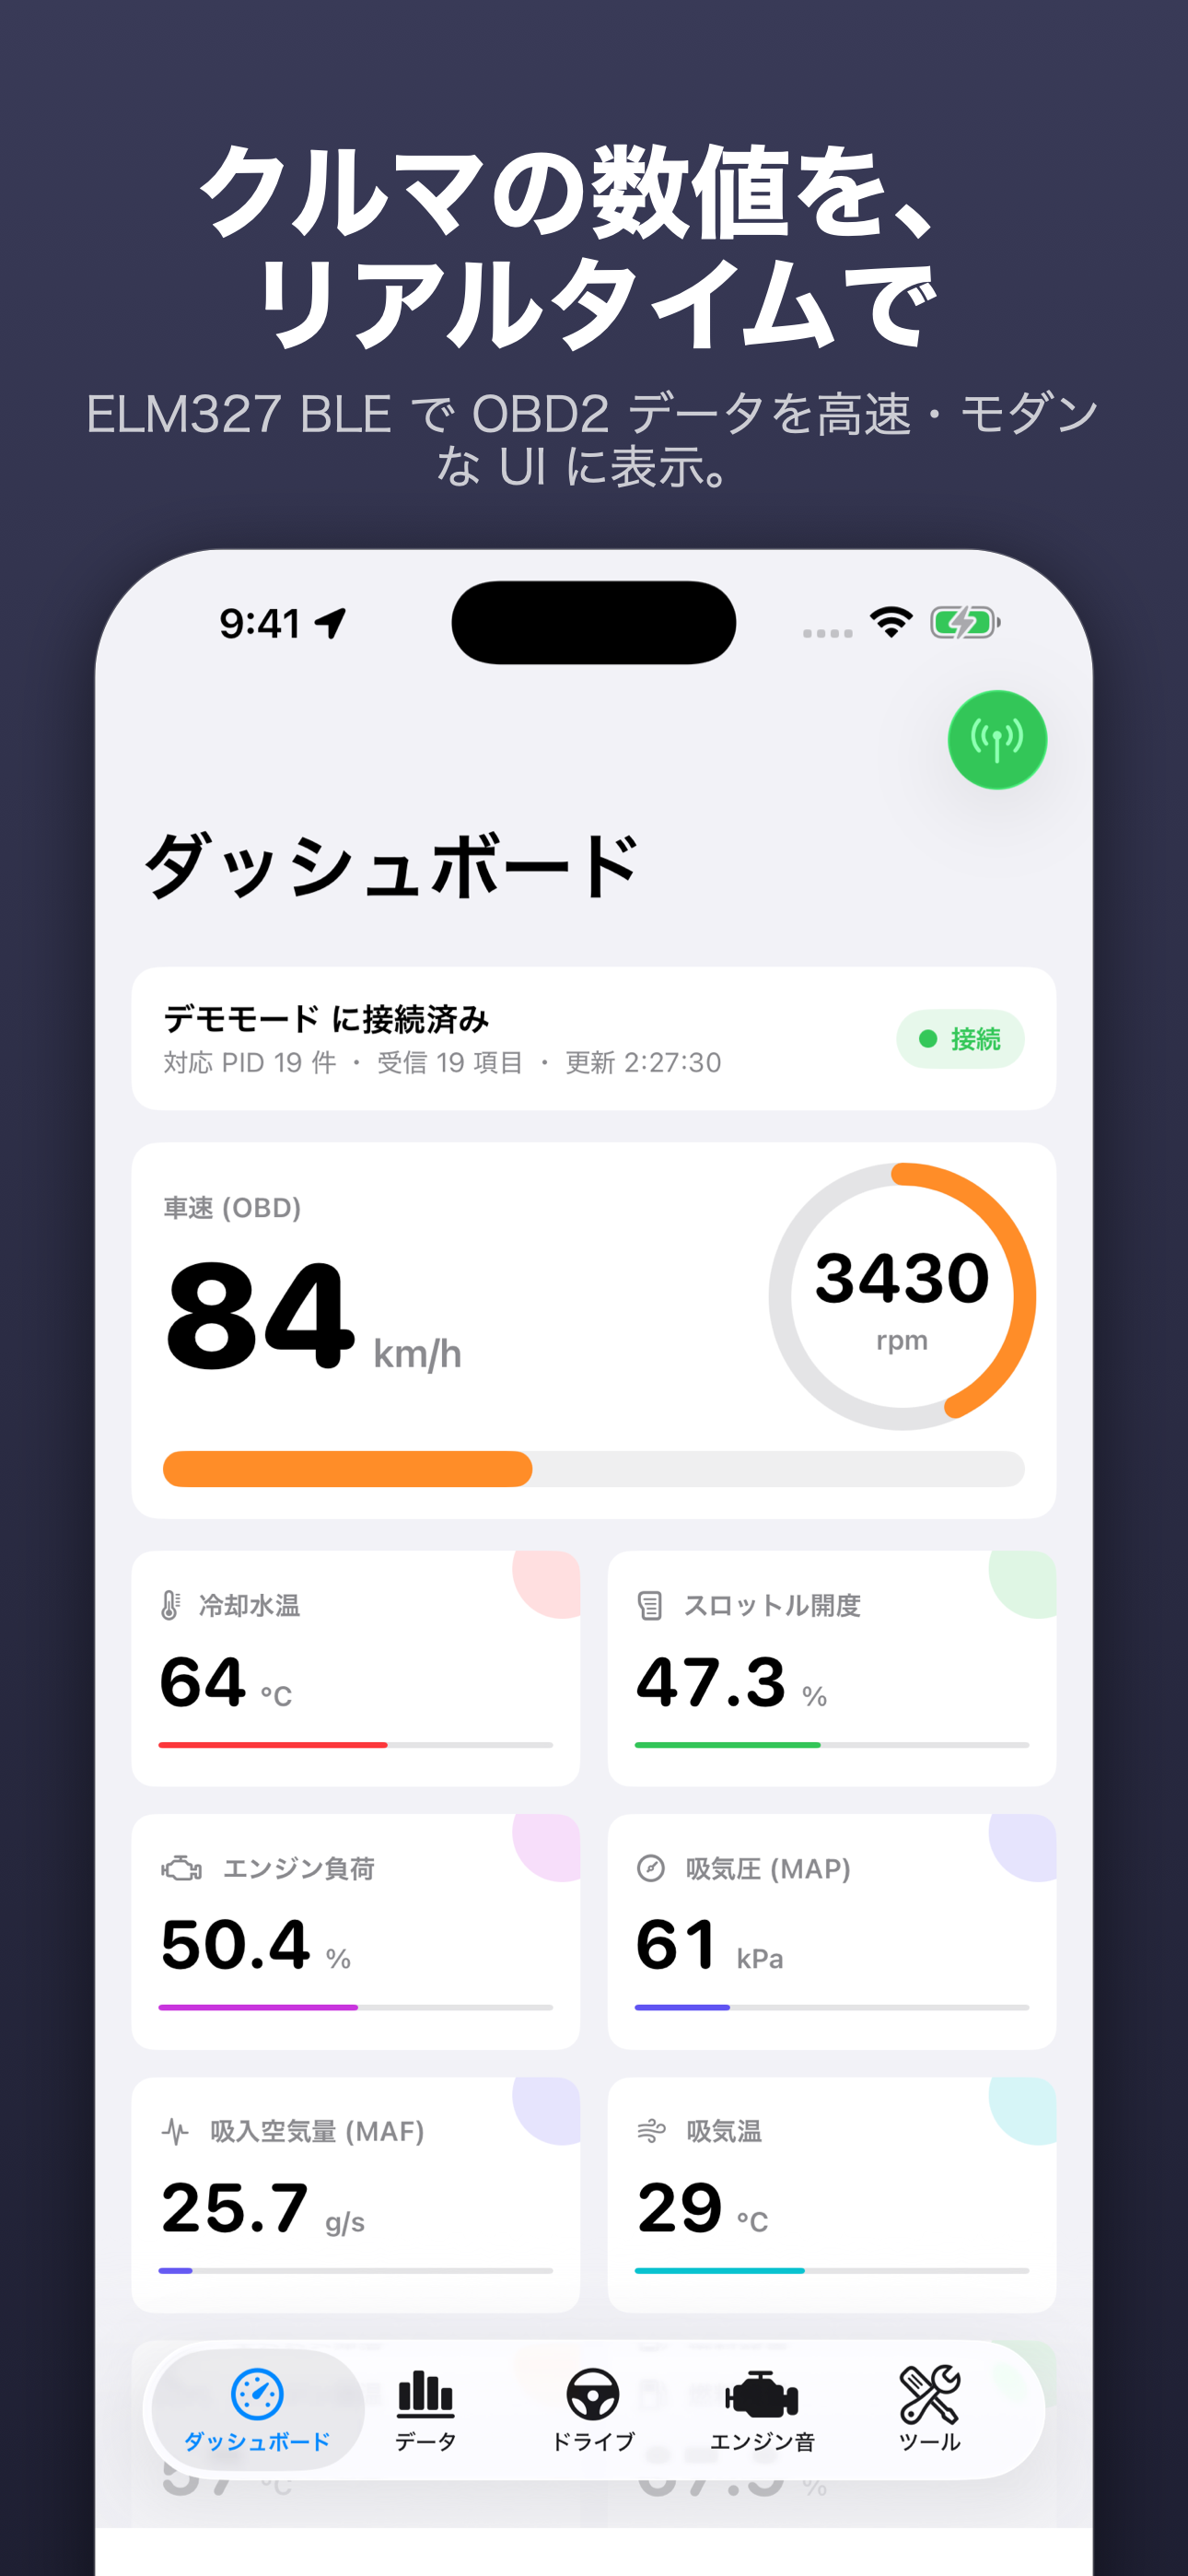
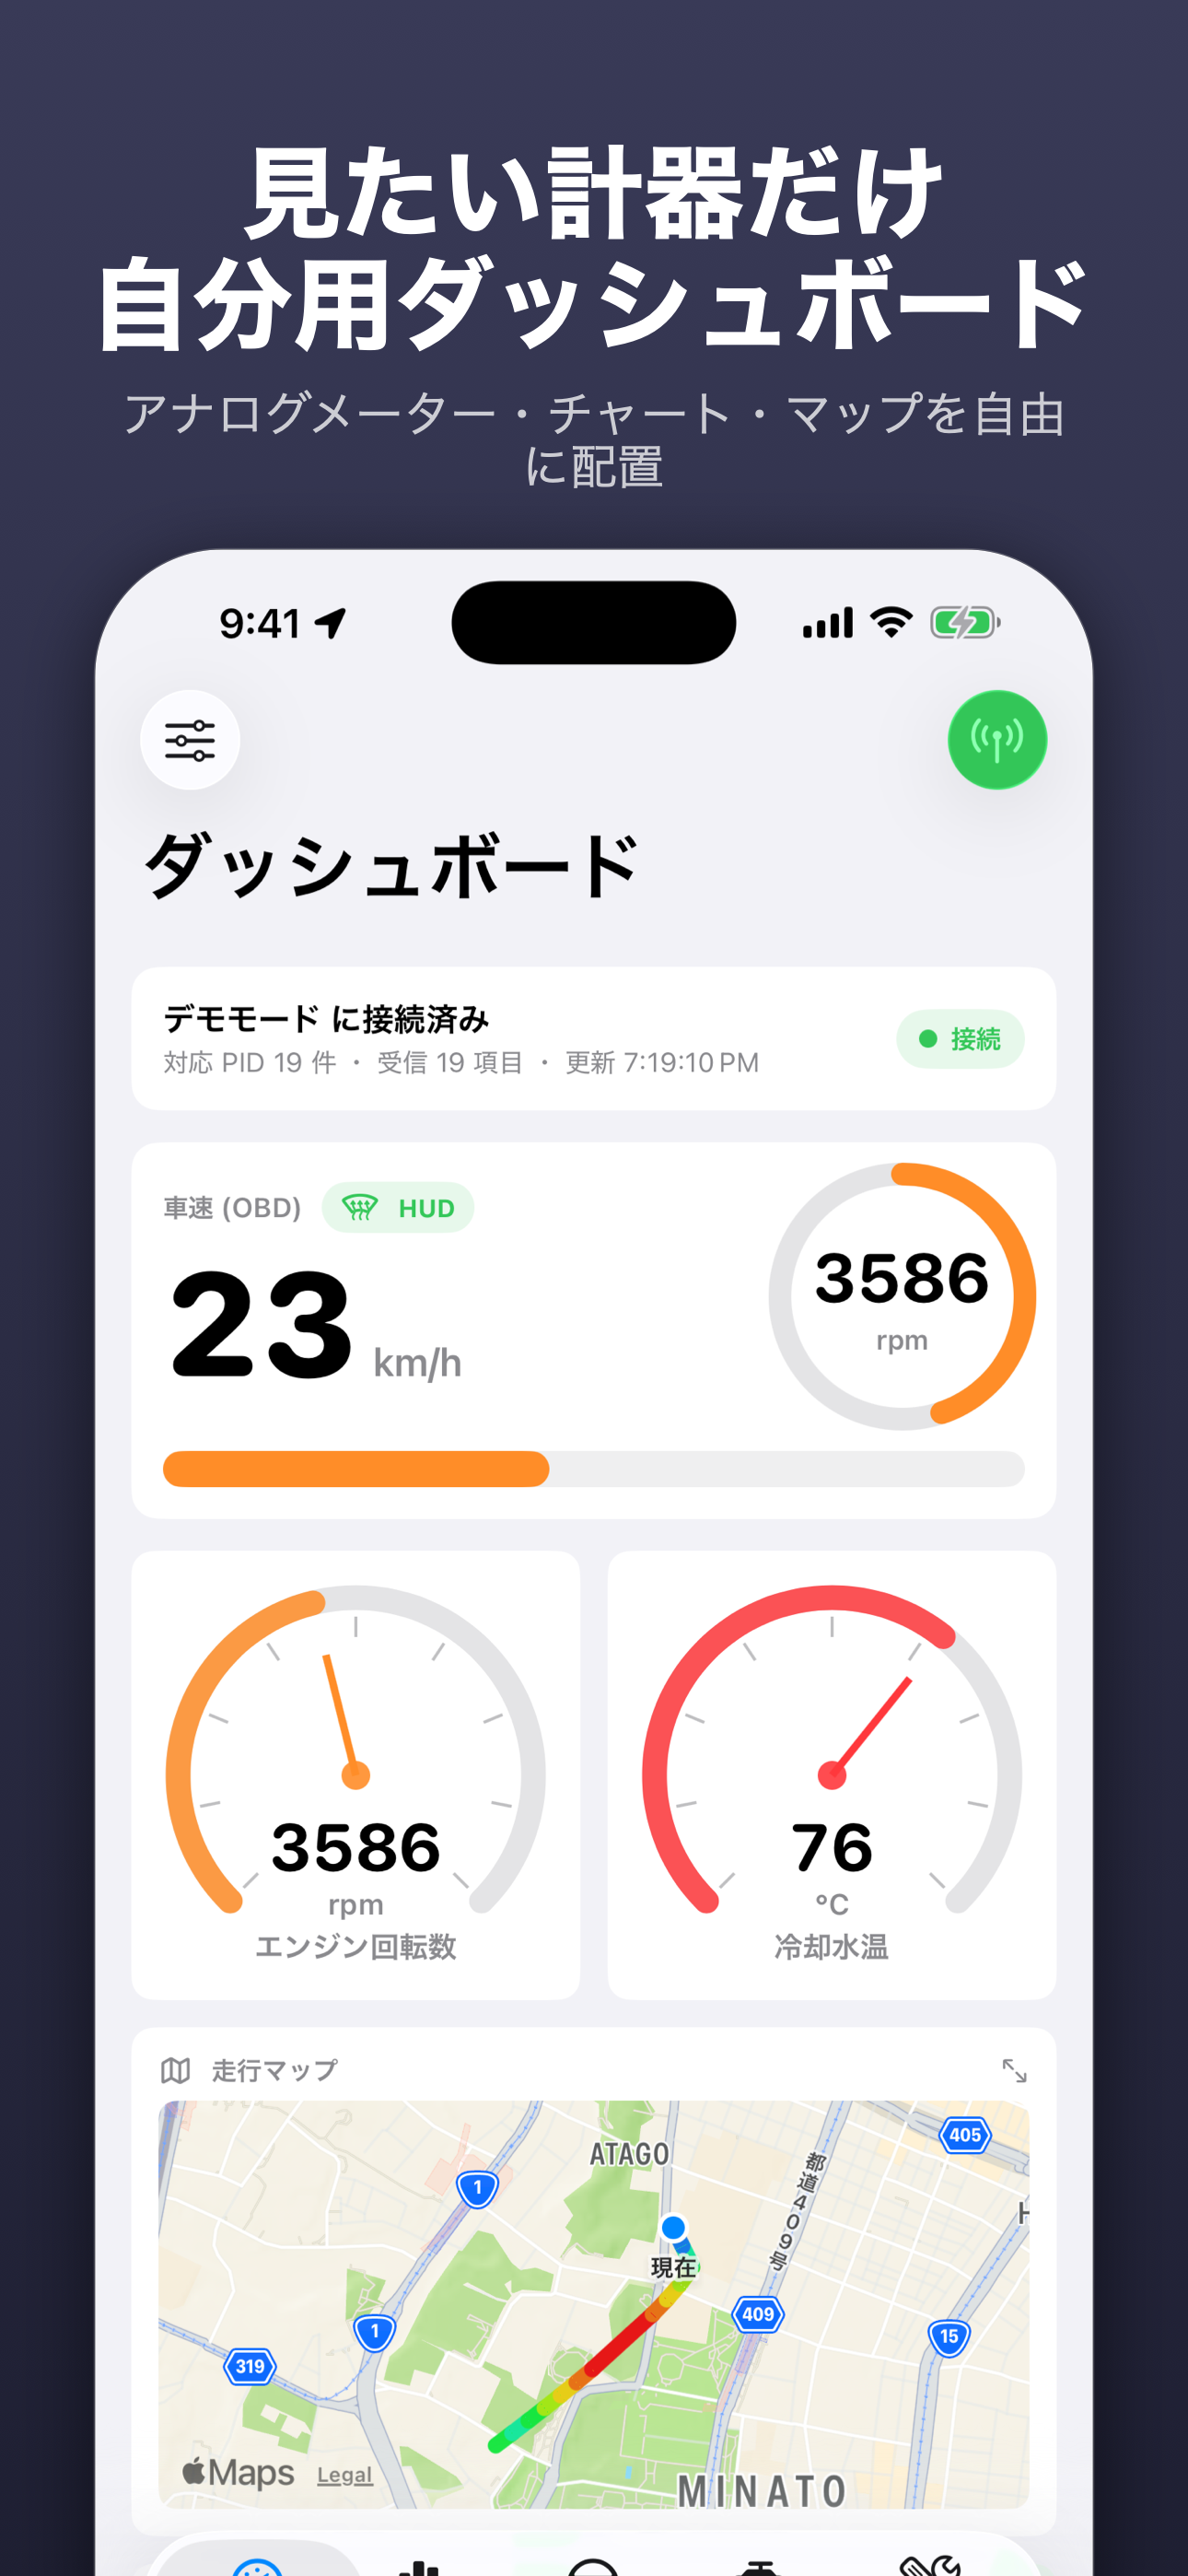
Pro収益最大化: 比較表ペイウォール+文脈導線+初回提案、ASO刷新
- ペイウォールを無料/広告除去/Proの3列比較表に刷新(価格アンカリング)
- CSV制限到達時の警告→ペイウォール導線、初回接続後に一度だけプラン提案
- ASCのプロダクトIDはハイフン不可のため Sena.car_ui.* に改名
- ストアメタデータ(ja/en-US)とスクショ7枚×2ロケールを新機能反映で全面更新

diff --git a/car_ui/PaywallView.swift b/car_ui/PaywallView.swift
@@ -2,8 +2,8 @@
 //  PaywallView.swift
 //  car_ui
 //
-//  Pro(買い切り)ペイウォール。広告除去・DTC 消去・CSV 無制限・記録保存の
-//  価値を提示し、購入 / 復元を行う。
+//  プラン提案ペイウォール。無料 / 広告除去(¥300)/ Pro(¥730)の3列比較で
+//  価値を提示し、購入 / 復元を行う。買い切り・サブスクなしを全面に。
 //
 
 import StoreKit
@@ -13,19 +13,34 @@ struct PaywallView: View {
     @Environment(ProStore.self) private var proStore
     @Environment(\.dismiss) private var dismiss
 
+    private struct BenefitRow: Identifiable {
+        let name: String
+        let detail: String
+        let inAdFree: Bool
+
+        var id: String { name }
+    }
+
+    private let benefits: [BenefitRow] = [
+        BenefitRow(name: "広告なし", detail: "全タブのバナー広告を非表示", inAdFree: true),
+        BenefitRow(name: "DTC 消去", detail: "故障コードをワンタップで消去", inAdFree: false),
+        BenefitRow(name: "CSV 無制限", detail: "横持ち/縦持ちエクスポートを制限なく", inAdFree: false),
+        BenefitRow(name: "記録の保存", detail: "0-100 加速・G フォースの記録を保存", inAdFree: false)
+    ]
+
     var body: some View {
         NavigationStack {
             ScrollView {
                 VStack(alignment: .leading, spacing: 22) {
                     header
-                    benefitsList
+                    comparisonTable
                     purchaseSection
                 }
                 .padding()
                 .frame(maxWidth: .infinity, alignment: .leading)
             }
             .background(Color(.systemGroupedBackground))
-            .navigationTitle("car_ui Pro")
+            .navigationTitle("プラン")
             .navigationBarTitleDisplayMode(.inline)
             .toolbar {
                 ToolbarItem(placement: .cancellationAction) {
@@ -50,42 +65,93 @@ struct PaywallView: View {
                 .font(.system(size: 44))
                 .foregroundStyle(.orange)
 
-            Text("car_ui Pro")
+            Text("買い切り、一回だけ。")
                 .font(.title2.weight(.bold))
 
-            Text("買い切り一回払い。サブスクなし・広告なしで全機能を使えます。")
+            Text("サブスクはありません。一度買えばずっと使えます。")
                 .font(.subheadline)
                 .foregroundStyle(.secondary)
         }
         .frame(maxWidth: .infinity, alignment: .leading)
     }
 
-    private var benefitsList: some View {
-        VStack(alignment: .leading, spacing: 16) {
-            benefitRow(icon: "rectangle.slash", title: "広告除去", detail: "全タブのバナー広告を非表示")
-            benefitRow(icon: "stethoscope", title: "DTC 消去", detail: "故障コードをワンタップで消去")
-            benefitRow(icon: "square.and.arrow.up", title: "CSV ログ無制限", detail: "記録データを制限なくエクスポート")
-            benefitRow(icon: "internaldrive", title: "記録の保存", detail: "0-100 加速・G フォースの記録を保存")
-        }
-        .panelStyle()
-    }
+    // MARK: - 無料 / 広告除去 / Pro の比較表
 
-    private func benefitRow(icon: String, title: String, detail: String) -> some View {
-        HStack(alignment: .top, spacing: 12) {
-            Image(systemName: icon)
-                .font(.title3)
-                .foregroundStyle(.blue)
-                .frame(width: 26)
-
-            VStack(alignment: .leading, spacing: 2) {
-                Text(title)
-                    .font(.subheadline.weight(.semibold))
-                Text(detail)
-                    .font(.caption)
+    private var comparisonTable: some View {
+        VStack(spacing: 0) {
+            // ヘッダ行
+            HStack(spacing: 0) {
+                Text("機能")
+                    .font(.caption.weight(.semibold))
                     .foregroundStyle(.secondary)
+                    .frame(maxWidth: .infinity, alignment: .leading)
+
+                planHeader("無料", price: nil, highlighted: false)
+                planHeader("広告除去", price: proStore.adFreeProduct?.displayPrice, highlighted: false)
+                planHeader("Pro", price: proStore.proProduct?.displayPrice, highlighted: true)
+            }
+            .padding(.vertical, 10)
+
+            Divider()
+
+            ForEach(benefits) { benefit in
+                HStack(spacing: 0) {
+                    VStack(alignment: .leading, spacing: 2) {
+                        Text(benefit.name)
+                            .font(.subheadline.weight(.semibold))
+                        Text(benefit.detail)
+                            .font(.caption2)
+                            .foregroundStyle(.secondary)
+                    }
+                    .frame(maxWidth: .infinity, alignment: .leading)
+
+                    checkCell(false, highlighted: false)
+                    checkCell(benefit.inAdFree, highlighted: false)
+                    checkCell(true, highlighted: true)
+                }
+                .padding(.vertical, 10)
+
+                if benefit.id != benefits.last?.id {
+                    Divider()
+                }
             }
         }
+        .padding(.horizontal, 14)
+        .background(Color(.secondarySystemGroupedBackground), in: RoundedRectangle(cornerRadius: 12))
+        .overlay(alignment: .topTrailing) {
+            Text("おすすめ")
+                .font(.caption2.weight(.bold))
+                .padding(.horizontal, 8)
+                .padding(.vertical, 3)
+                .background(.indigo, in: Capsule())
+                .foregroundStyle(.white)
+                .offset(x: -8, y: -10)
+        }
     }
+
+    private func planHeader(_ name: String, price: String?, highlighted: Bool) -> some View {
+        VStack(spacing: 2) {
+            Text(name)
+                .font(.caption.weight(highlighted ? .bold : .semibold))
+                .foregroundStyle(highlighted ? .indigo : .secondary)
+                .lineLimit(1)
+                .minimumScaleFactor(0.7)
+
+            Text(price ?? (name == "無料" ? "¥0" : "—"))
+                .font(.caption2.monospacedDigit())
+                .foregroundStyle(highlighted ? .indigo : .secondary)
+        }
+        .frame(width: 64)
+    }
+
+    private func checkCell(_ included: Bool, highlighted: Bool) -> some View {
+        Image(systemName: included ? "checkmark.circle.fill" : "minus")
+            .font(.subheadline)
+            .foregroundStyle(included ? (highlighted ? .indigo : .green) : Color(.systemFill))
+            .frame(width: 64)
+    }
+
+    // MARK: - 購入
 
     private var purchaseSection: some View {
         VStack(spacing: 12) {
@@ -104,11 +170,16 @@ struct PaywallView: View {
                         ProgressView()
                             .tint(.white)
                     }
-                    Text(purchaseButtonTitle)
-                        .font(.headline)
+                    VStack(spacing: 1) {
+                        Text(purchaseButtonTitle)
+                            .font(.headline)
+                        Text("全機能・買い切り")
+                            .font(.caption2)
+                            .opacity(0.85)
+                    }
                 }
                 .frame(maxWidth: .infinity)
-                .frame(height: 50)
+                .frame(height: 56)
             }
             .buttonStyle(.borderedProminent)
             .tint(.indigo)
@@ -127,11 +198,6 @@ struct PaywallView: View {
                 }
                 .buttonStyle(.bordered)
                 .disabled(proStore.isPurchasing || proStore.adFreeProduct == nil)
-
-                Text("広告除去のみの買い切りです。DTC 消去などの Pro 機能は含みません。")
-                    .font(.caption2)
-                    .foregroundStyle(.secondary)
-                    .frame(maxWidth: .infinity, alignment: .center)
             } else {
                 Text("広告除去は購入済みです。Pro にすると残りの機能も使えます。")
                     .font(.caption)
@@ -144,6 +210,11 @@ struct PaywallView: View {
             }
             .font(.subheadline.weight(.semibold))
             .disabled(proStore.isPurchasing)
+
+            Text("お支払いは一度だけ。自動更新や定期課金は一切ありません。")
+                .font(.caption2)
+                .foregroundStyle(.secondary)
+                .frame(maxWidth: .infinity, alignment: .center)
         }
         .frame(maxWidth: .infinity)
     }

diff --git a/car_ui/ChartsView.swift b/car_ui/ChartsView.swift
@@ -16,6 +16,7 @@ struct ChartsView: View {
     @State private var windowMinutes = 5
     @State private var normalized = false
     @State private var exportWideFormat = true
+    @State private var showingPaywall = false
     @AppStorage("charts.separate") private var separateCharts = false
 
     private let windowOptions = [1, 5, 15, 60]
@@ -43,6 +44,9 @@ struct ChartsView: View {
             }
             .background(Color(.systemGroupedBackground))
             .navigationTitle("チャート")
+            .sheet(isPresented: $showingPaywall) {
+                PaywallView()
+            }
             .onAppear(perform: selectDefaultChannels)
             // 起動直後にこのタブを開くと記録がまだ空でデフォルト選択が効かないため、
             // チャンネルが現れたタイミングでも選択し直す
@@ -265,9 +269,28 @@ struct ChartsView: View {
                 .foregroundStyle(.secondary)
 
             if !proStore.isPro {
-                Text("無料版は直近\(TelemetryRecorder.freeExportRowLimit)件(行)までエクスポート。Pro で無制限。")
-                    .font(.caption)
-                    .foregroundStyle(.secondary)
+                if exportWillTruncate {
+                    // 制限に実際に達している瞬間が最も購入意欲が高い(文脈導線)
+                    Button {
+                        showingPaywall = true
+                    } label: {
+                        HStack(spacing: 6) {
+                            Image(systemName: "exclamationmark.triangle.fill")
+                            Text("記録が\(TelemetryRecorder.freeExportRowLimit)件を超えています。エクスポートは切り詰められます — Pro で無制限に")
+                                .multilineTextAlignment(.leading)
+                        }
+                        .font(.caption.weight(.semibold))
+                        .foregroundStyle(.orange)
+                        .frame(maxWidth: .infinity, alignment: .leading)
+                        .padding(10)
+                        .background(.orange.opacity(0.1), in: RoundedRectangle(cornerRadius: 8))
+                    }
+                    .buttonStyle(.plain)
+                } else {
+                    Text("無料版は直近\(TelemetryRecorder.freeExportRowLimit)件(行)までエクスポート。Pro で無制限。")
+                        .font(.caption)
+                        .foregroundStyle(.secondary)
+                }
             }
         }
         .panelStyle()
@@ -275,6 +298,11 @@ struct ChartsView: View {
 
     private var exportChannels: [String] {
         selectedChannels.isEmpty ? recorder.channelIDs : Array(selectedChannels).sorted()
+    }
+
+    /// 無料版の切り詰めが実際に発生する記録量か
+    private var exportWillTruncate: Bool {
+        exportChannels.contains { recorder.samples($0).count > TelemetryRecorder.freeExportRowLimit }
     }
 
     private struct ChartSeries: Identifiable {

diff --git a/car_ui/ContentView.swift b/car_ui/ContentView.swift
@@ -18,6 +18,10 @@ struct ContentView: View {
     @State private var proStore = ProStore.shared
     @Environment(\.scenePhase) private var scenePhase
     @State private var selectedTab = 0
+    // 初回接続成功後に一度だけ出すプラン提案(価値体験の直後が最も反発が少ない)
+    @AppStorage("paywall.introOffered") private var introOffered = false
+    @State private var showingIntroPaywall = false
+    @State private var suppressIntroOffer = false
 
     var body: some View {
         VStack(spacing: 0) {
@@ -40,6 +44,21 @@ struct ContentView: View {
         .onReceive(obd.$liveValues) { values in
             engineSound.ingest(values)
             tripComputer.ingest(values)
+        }
+        // この sheet は .environment(proStore) より外側に付くため、
+        // シート内容へ明示的に環境を注入する(欠けると起動時クラッシュ)
+        .sheet(isPresented: $showingIntroPaywall) {
+            PaywallView()
+                .environment(proStore)
+        }
+        .onChange(of: obd.phase.isConnected) { _, isConnected in
+            guard isConnected, !introOffered, !suppressIntroOffer,
+                  !proStore.isPro, !proStore.isAdFree else { return }
+            introOffered = true
+            Task {
+                try? await Task.sleep(nanoseconds: 3_000_000_000)
+                showingIntroPaywall = true
+            }
         }
         .onChange(of: scenePhase) { _, newPhase in
             // 車載利用中は画面を暗転・スリープさせない(前面のときだけ有効化し、
@@ -101,10 +120,16 @@ struct ContentView: View {
             return args[idx + 1]
         }
         if value(after: "-uiDemo") == "1" {
+            // スクショ撮影を初回提案シートで汚さない
+            suppressIntroOffer = true
             obd.startDemoMode()
         }
         if let tabString = value(after: "-uiTab"), let tab = Int(tabString), (0...4).contains(tab) {
             selectedTab = tab
+        }
+        // 初回提案シートの検証用フック(フラグ状態に関係なく強制表示)
+        if value(after: "-uiIntroOffer") == "1" {
+            showingIntroPaywall = true
         }
     }
 }

diff --git a/car_ui/ProStore.swift b/car_ui/ProStore.swift
@@ -16,8 +16,8 @@ import StoreKit
 final class ProStore {
     static let shared = ProStore()
 
-    static let proProductID = "Sena.car-ui.pro"
-    static let adFreeProductID = "Sena.car-ui.adfree"
+    static let proProductID = "Sena.car_ui.pro"
+    static let adFreeProductID = "Sena.car_ui.adfree"
     private static let allProductIDs = [proProductID, adFreeProductID]
 
     private(set) var products: [Product] = []

diff --git a/done.md b/done.md
@@ -161,3 +161,13 @@
 - **編集UI**: `DashboardBuilderView.swift`(旧 DashboardCustomizeView は削除)— 並べ替え/削除/種類のあと変更(行の Menu で デジタル⇄アナログ⇄チャート)/追加(4種、PID 対象は PIDPickerView で選択)/デフォルトに戻す
 - 検証: BUILD SUCCEEDED。UserDefaults に混在レイアウトを直接注入して デモ+GPS ルートでスクショ確認(アナログメーター2種・航空写真ミニマップ・チャート2枚縦積み・タイル併存)。ビルダー画面は一時初期値で撮影→復元(TEMP 残存ゼロ)。注入した検証用レイアウトは defaults delete で除去済み
 - 注意: タイルは値未受信でも "--" で表示する仕様に変更(従来は自動非表示)。ウィジェットは明示追加制のため
+
+## 2026/07/16 (Pro収益最大化: ペイウォール刷新+導線+IAP/ASO を ASC 反映)
+- **ペイウォール刷新**: PaywallView を 無料/広告除去/Pro の3列比較表に(Pro おすすめバッジ・価格アンカリング・「買い切り、一回だけ。」訴求・2購入ボタン+復元)。sheet を .environment(proStore) の外側に付けると ProStore 未注入でクラッシュする点に注意(ContentView の初回提案 sheet は明示注入で対処)
+- **購入導線**: ①ChartsView — 記録が500件を超え実際に切り詰めが起きる時だけ警告ボタン→ペイウォール(exportWillTruncate) ②初回接続成功3秒後に一度だけプラン提案(@AppStorage "paywall.introOffered"、-uiDemo では抑制、-uiIntroOffer 1 で強制表示=検証フック)
+- **IAP を ASC 登録**: iap_spec.json に car_ui 2エントリ追加 → asc_create_iap.py 本実行で `Sena.car_ui.pro`(¥730)/`Sena.car_ui.adfree`(¥300)作成完了(ja/en-US ローカライズ・全175地域)。**ASC のプロダクト ID はハイフン不可**のため `Sena.car-ui.*` → `Sena.car_ui.*` に改名(ProStore/Products.storekit/spec の3箇所、未リリースなので安全)
+- **ASO 更新**: metadata(ja/en-US)を新機能反映で全面改稿(走行マップ色分け/自分用ダッシュボード/HUD/トリップ燃費/フリーズフレーム/レディネス=車検前チェック/CSV横持ち)。keywords: ja に「車検」、en を hud/map 入りに入れ替え。store_lint PASS
+- **スクショ 7枚×2ロケール**: 新機能入りで撮り直し(ダッシュボードウィジェット/ドライブ+マップ/HUD/エンジン音/データ個別チャート/レディネス/フリーズフレーム)。store_frame --lang ja で見出し加工、1290x2796、lint PASS。生素材は store/raw/new_*.png
+- **ASC へ API 反映**: `biz/bin/asc_update_metadata.py` 新設(store/metadata を読んで appStoreVersionLocalizations / appInfoLocalizations を PATCH)。version 1.0(PREPARE_FOR_SUBMISSION)に ja/en-US の説明文・キーワード・プロモ文・name/subtitle 反映済み。**初回バージョンは whatsNew 編集不可**(除外して再試行するフォールバック実装済み)
+- 検証: BUILD SUCCEEDED。比較表ペイウォール・初回提案フックをスクショ確認。ASC API は本実行ログで成功確認
+- **残タスク(手動)**: ①ASC Web でスクショ添付(store/screenshots/ja・en-US の 7枚ずつ) ②IAP の審査提出(スクショ添付要) ③Xcode Run で新プロダクト ID の価格表示・購入・復元確認 ④PrivacyInfo の広告SDK対応更新(既知・提出前)